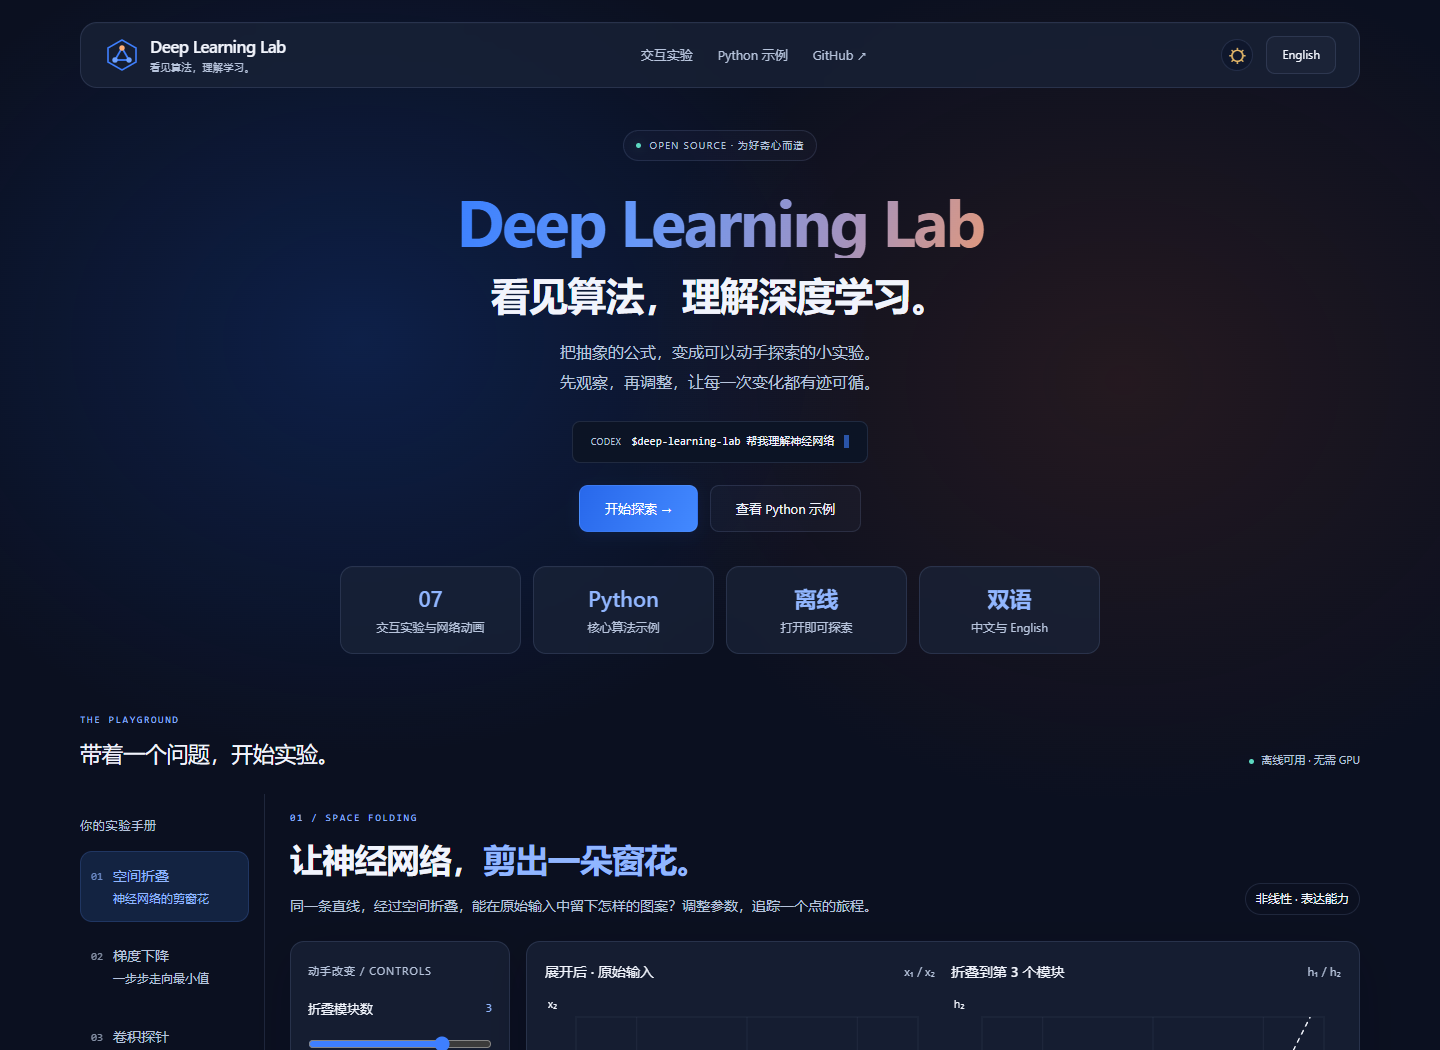
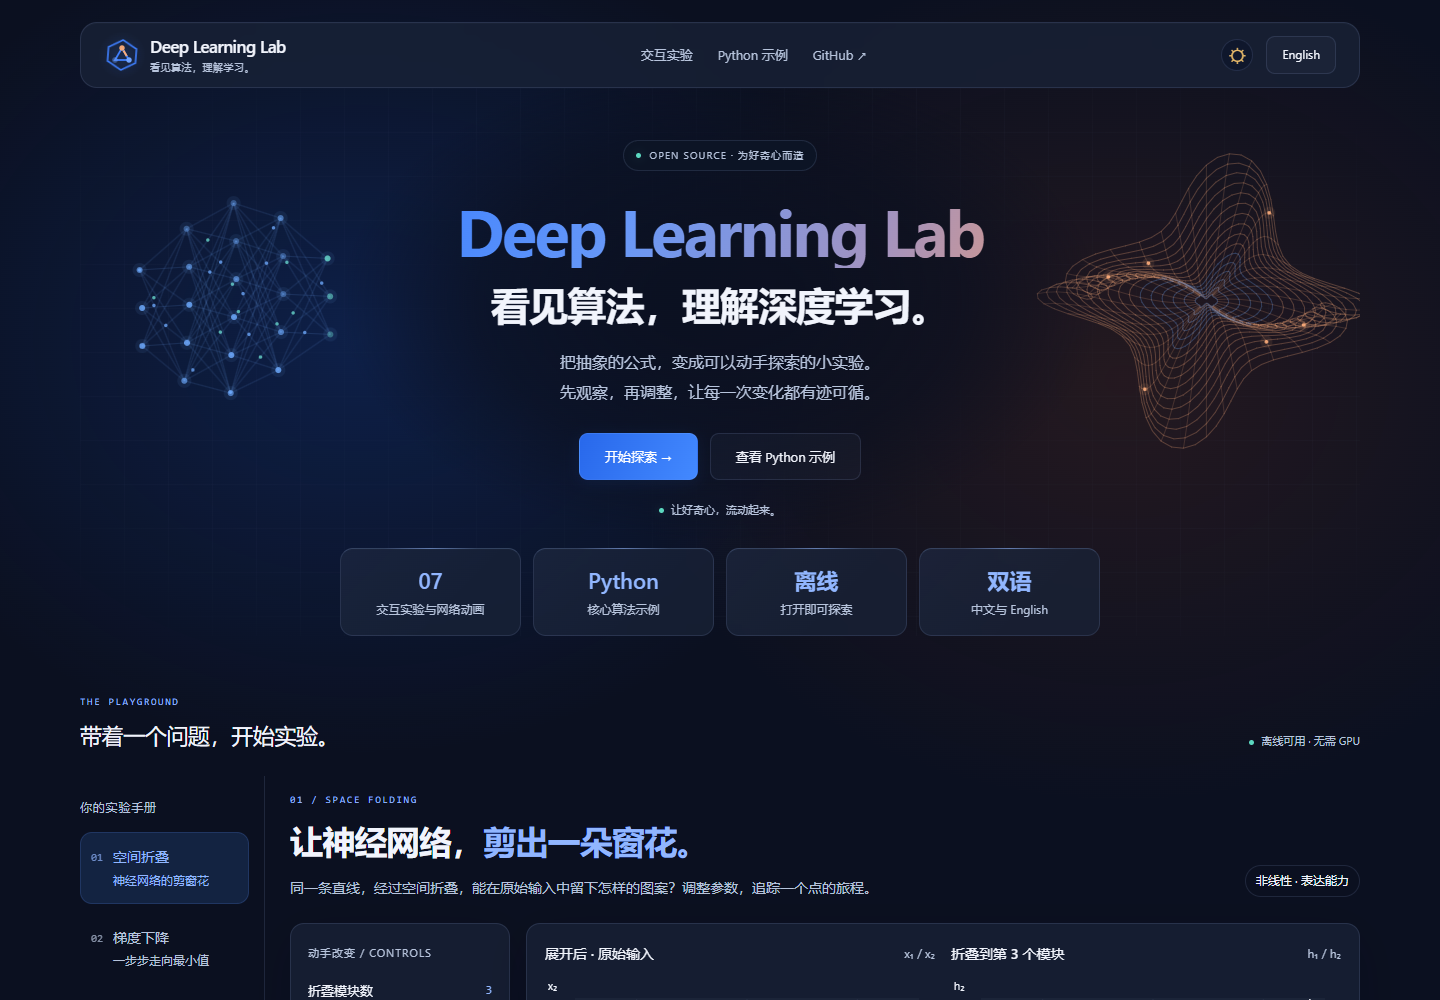
Animate the landing page and simplify hero content

diff --git a/assets/lab/hero.js b/assets/lab/hero.js
@@ -1,0 +1,121 @@
+(function () {
+  'use strict';
+  const root = document.documentElement;
+  const landing = document.querySelector('.landing');
+  const canvas = document.getElementById('landing-canvas');
+  const ctx = canvas.getContext('2d');
+  const reduced = window.matchMedia('(prefers-reduced-motion: reduce)');
+  let enabled = !reduced.matches;
+  let inView = true, frame = 0, previous = 0, elapsed = 0, width = 0, height = 0;
+  const tau = Math.PI * 2;
+
+  function labels() {
+    const zh = root.lang !== 'en';
+    document.getElementById('scene-caption').textContent = zh ? '让好奇心，流动起来。' : 'Let curiosity flow.';
+  }
+  function dot(x, y, radius, color, alpha) {
+    ctx.globalAlpha = alpha;
+    ctx.fillStyle = color;
+    ctx.beginPath(); ctx.arc(x, y, radius, 0, tau); ctx.fill();
+  }
+  function draw() {
+    if (!ctx || !width || !height) return;
+    ctx.clearRect(0, 0, width, height);
+    const light = root.dataset.theme === 'light';
+    const blue = light ? '#3265bd' : '#6eabff';
+    const warm = light ? '#bd653e' : '#ffae7b';
+    const teal = light ? '#318877' : '#6bdfd0';
+    const compact = width < 900;
+    const scale = compact ? .65 : 1;
+    const cy = compact ? 215 : 213;
+    const left = compact ? width * .04 : width * .12;
+    const right = compact ? width * .98 : width * .88;
+    const t = elapsed * .001;
+
+    // A decorative layered graph: packets travel from one layer to the next.
+    const counts = [3, 5, 6, 5, 3];
+    const layers = counts.map((count, layer) => Array.from({ length: count }, (_, row) => ({
+      x: left + (layer - 2) * 47 * scale + Math.sin(t * .3 + row) * 3,
+      y: cy + (row - (count - 1) / 2) * 38 * scale + Math.cos(t * .25 + layer) * 7
+    })));
+    ctx.lineWidth = .8;
+    for (let layer = 0; layer < layers.length - 1; layer++) {
+      layers[layer].forEach((a, i) => layers[layer + 1].forEach((b, j) => {
+        ctx.globalAlpha = (light ? .2 : .19) * (compact ? .7 : 1);
+        ctx.strokeStyle = blue; ctx.beginPath(); ctx.moveTo(a.x, a.y); ctx.lineTo(b.x, b.y); ctx.stroke();
+        if ((i * 3 + j + layer) % 4 === 0) {
+          const progress = (t * .23 + layer * .25 + i * .17 + j * .08) % 1;
+          dot(a.x + (b.x - a.x) * progress, a.y + (b.y - a.y) * progress, 1.7, i % 2 ? teal : blue, .75);
+        }
+      }));
+    }
+    layers.forEach((points, layer) => points.forEach((p, i) => {
+      dot(p.x, p.y, 7 * scale, blue, .08);
+      dot(p.x, p.y, 3 * scale, layer === 4 ? teal : blue, .6 + .25 * Math.sin(t * 1.6 - layer + i));
+    }));
+
+    // A slowly turning folded surface, echoing the paper-cut experiment.
+    const radius = 147 * scale;
+    const turn = t * .055;
+    function surface(v, u) {
+      const angle = u * tau;
+      const r = radius * v * (1 + .21 * Math.cos(6 * angle + v * 2));
+      const z = Math.sin(3 * angle + v * 2.8) * radius * v * .38;
+      return { x: right + Math.cos(angle + turn) * r, y: cy + Math.sin(angle + turn) * r * .62 + z * .7 };
+    }
+    ctx.lineWidth = .85;
+    for (let ring = 1; ring <= 16; ring++) {
+      ctx.globalAlpha = light ? .3 : .32;
+      ctx.strokeStyle = ring < 7 ? blue : warm;
+      ctx.beginPath();
+      for (let i = 0; i <= 96; i++) {
+        const p = surface(ring / 16, i / 96);
+        if (!i) ctx.moveTo(p.x, p.y); else ctx.lineTo(p.x, p.y);
+      }
+      ctx.stroke();
+    }
+    for (let i = 0; i < 48; i++) {
+      ctx.globalAlpha = light ? .17 : .2; ctx.strokeStyle = warm; ctx.beginPath();
+      for (let ring = 1; ring <= 16; ring++) {
+        const p = surface(ring / 16, i / 48);
+        if (ring === 1) ctx.moveTo(p.x, p.y); else ctx.lineTo(p.x, p.y);
+      }
+      ctx.stroke();
+    }
+    for (let i = 0; i < 6; i++) {
+      const p = surface(.62 + .3 * Math.sin(t * .3 + i) ** 2, (t * .025 + i / 6) % 1);
+      dot(p.x, p.y, 6, warm, .09); dot(p.x, p.y, 1.8, warm, .9);
+    }
+    ctx.globalAlpha = 1;
+  }
+  function tick(now) {
+    if (!previous) previous = now;
+    if (now - previous >= 32) {
+      elapsed += Math.min(now - previous, 80); previous = now; draw();
+    }
+    frame = requestAnimationFrame(tick);
+  }
+  function sync() {
+    cancelAnimationFrame(frame); frame = 0; previous = 0;
+    const running = enabled && inView && !document.hidden;
+    root.dataset.ambientRunning = running ? 'on' : 'off';
+    canvas.dataset.sceneState = !enabled ? 'paused' : document.hidden ? 'hidden' : !inView ? 'offscreen' : 'running';
+    labels();
+    if (running && ctx) frame = requestAnimationFrame(tick);
+    else draw();
+  }
+  function resize() {
+    const rect = landing.getBoundingClientRect();
+    width = Math.round(rect.width); height = Math.round(rect.height);
+    const dpr = Math.min(window.devicePixelRatio || 1, 1.5);
+    canvas.width = Math.round(width * dpr); canvas.height = Math.round(height * dpr);
+    if (ctx) ctx.setTransform(dpr, 0, 0, dpr, 0, 0);
+    draw();
+  }
+  reduced.addEventListener('change', () => { enabled = !reduced.matches; sync(); });
+  document.addEventListener('visibilitychange', sync);
+  new IntersectionObserver(entries => { inView = entries[0].isIntersecting; sync(); }).observe(landing);
+  new ResizeObserver(resize).observe(landing);
+  new MutationObserver(() => { labels(); draw(); }).observe(root, { attributes: true, attributeFilter: ['lang', 'data-theme'] });
+  resize(); sync();
+})();

diff --git a/assets/lab/index.html b/assets/lab/index.html
@@ -11,27 +11,30 @@
   <link rel="stylesheet" href="design.css">
   <link rel="stylesheet" href="controls.css">
   <link rel="stylesheet" href="networks.css">
+  <link rel="stylesheet" href="hero.css">
   <script defer src="core.js"></script>
   <script defer src="network-model.js"></script>
   <script defer src="networks-ui.js"></script>
   <script defer src="mlp-model.js"></script>
   <script defer src="mlp-ui.js"></script>
   <script defer src="app.js"></script>
+  <script defer src="hero.js"></script>
 </head>
 <body>
   <a class="skip-link" href="#main">跳转到实验 / Skip to experiment</a>
   <header class="site-header">
-    <a class="brand" href="#fold" aria-label="Deep Learning Lab home"><span class="brand-mark" aria-hidden="true"><svg viewBox="0 0 36 36"><path d="M18 3 32 11v14l-14 8L4 25V11Z" fill="none" stroke="currentColor" stroke-width="1.6"/><path d="m11 23 7-12 7 12Z" fill="none" stroke="currentColor" stroke-width="1.8"/><circle cx="18" cy="11" r="2.7" fill="#ffad75"/><circle cx="11" cy="23" r="2.7" fill="#6fa2ff"/><circle cx="25" cy="23" r="2.7" fill="#6fa2ff"/></svg></span><span>Deep Learning <strong>Lab</strong><small id="brand-caption">看见算法，理解学习。</small></span></a>
+    <a class="brand" href="#fold" aria-label="Deep Learning Lab home"><span class="brand-mark" aria-hidden="true"><svg viewBox="0 0 36 36"><path class="brand-orbit" d="M18 3 32 11v14l-14 8L4 25V11Z" fill="none" stroke="currentColor" stroke-width="1.6"/><path d="m11 23 7-12 7 12Z" fill="none" stroke="currentColor" stroke-width="1.8"/><path class="brand-signal" d="m18 11 7 12H11Z" fill="none" stroke="#ffad75" stroke-width="2" pathLength="1"/><circle class="brand-node" cx="18" cy="11" r="2.7" fill="#ffad75"/><circle class="brand-node" cx="11" cy="23" r="2.7" fill="#6fa2ff"/><circle class="brand-node" cx="25" cy="23" r="2.7" fill="#6fa2ff"/></svg></span><span>Deep Learning <strong>Lab</strong><small id="brand-caption">看见算法，理解学习。</small></span></a>
     <nav class="top-nav" aria-label="Sections"><button type="button" id="nav-lab">交互实验</button><button type="button" id="nav-python">Python 示例</button><a href="https://github.com/cosin17/deep-learning-lab" target="_blank" rel="noopener noreferrer">GitHub ↗</a></nav>
     <div class="header-actions"><button id="theme-toggle" class="theme-button" type="button" aria-label="切换为浅色主题">☼</button><button class="language-button" id="language" type="button">English</button></div>
   </header>
   <section class="landing" aria-labelledby="landing-title">
+    <div class="landing-scene" aria-hidden="true"><canvas id="landing-canvas"></canvas><div class="scene-grid"></div></div>
     <p class="open-badge"><span aria-hidden="true"></span><span id="landing-badge">OPEN SOURCE · 为好奇心而造</span></p>
     <h1 id="landing-title">Deep Learning Lab</h1>
     <p class="landing-subtitle" id="landing-subtitle">看见算法，理解深度学习。</p>
     <p class="landing-description" id="landing-description">把抽象的公式，变成可以动手探索的小实验。<br>先观察，再调整，让每一次变化都有迹可循。</p>
-    <div class="agent-command"><span class="command-dollar">CODEX</span><code id="agent-command">$deep-learning-lab 帮我理解神经网络</code><span class="command-cursor" aria-hidden="true"></span></div>
     <div class="landing-actions"><button class="button primary" type="button" id="start-experiment">开始探索 →</button><button class="button" type="button" id="explore-python">查看 Python 示例</button></div>
+    <p class="scene-caption"><i aria-hidden="true"></i><span id="scene-caption">让好奇心，流动起来。</span></p>
     <div class="feature-strip" id="feature-strip"></div>
   </section>
   <div class="lab-section-head"><div><p class="eyebrow">THE PLAYGROUND</p><h2 id="lab-section-title">带着一个问题，开始实验。</h2></div><span class="offline" id="offline-label">离线可用 · 无需 GPU</span></div>

diff --git a/assets/lab/hero.css b/assets/lab/hero.css
@@ -1,0 +1,43 @@
+/* Decorative motion stays behind crisp, stationary text. No remote media. */
+.landing { position: relative; isolation: isolate; max-width: 1280px; padding-top: 52px; }
+.landing-scene { position: absolute; inset: 0; z-index: -2; overflow: hidden; pointer-events: none; border-radius: 32px; }
+#landing-canvas { width: 100%; height: 100%; display: block; }
+.scene-grid { position: absolute; inset: 0; background-image: linear-gradient(var(--grid) 1px, transparent 1px), linear-gradient(90deg, var(--grid) 1px, transparent 1px); background-size: 44px 44px; opacity: .22; mask-image: radial-gradient(ellipse at center, transparent 22%, #000 68%, transparent 95%); }
+.landing::before { content: ""; position: absolute; inset: 0; z-index: -1; pointer-events: none; background: radial-gradient(ellipse 380px 240px at 50% 39%, #0b1020e8 18%, #0b1020a3 64%, transparent 100%); }
+:root[data-theme="light"] .landing::before { background: radial-gradient(ellipse 380px 240px at 50% 39%, #f4f6fcf5 18%, #f4f6fcb5 64%, transparent 100%); }
+.landing-description { color: var(--muted); font-weight: 400; }
+.open-badge { background: var(--code-bg); }
+.landing-actions { margin-top: 26px; }
+.scene-caption { display: flex; align-items: center; justify-content: center; gap: 7px; margin: 18px auto 0; min-height: 24px; color: var(--muted); font-size: 11px; }
+.scene-caption i { width: 5px; height: 5px; border-radius: 50%; background: var(--green); box-shadow: 0 0 9px #5cd8c040; }
+.feature-strip { margin-top: 26px; }
+.feature-tile { position: relative; background: linear-gradient(135deg, #729bff08, transparent 65%), var(--glass); border-top-color: #8ca8db40; }
+.feature-tile::after { content: ""; position: absolute; left: 24%; right: 24%; top: -1px; height: 1px; background: linear-gradient(90deg, transparent, #91b6ff80, transparent); }
+.brand-mark { position: relative; }
+.brand-mark::before { content: ""; position: absolute; inset: -6px; z-index: -1; border-radius: 50%; background: radial-gradient(circle, #3e7fff23, transparent 70%); }
+.brand-orbit { transform-origin: 18px 18px; animation: logo-orbit 24s linear infinite; }
+.brand-signal { stroke-dasharray: .14 .86; animation: logo-signal 3.6s linear infinite; }
+.brand-node { animation: logo-node 3.6s ease-in-out infinite; }
+.brand-node:nth-of-type(2) { animation-delay: -1.2s; }
+.brand-node:nth-of-type(3) { animation-delay: -2.4s; }
+:root:not([data-ambient-running="on"]) .brand-orbit,
+:root:not([data-ambient-running="on"]) .brand-signal,
+:root:not([data-ambient-running="on"]) .brand-node { animation-play-state: paused; }
+@keyframes logo-orbit { to { transform: rotate(360deg); } }
+@keyframes logo-signal { to { stroke-dashoffset: -1; } }
+@keyframes logo-node { 0%, 70%, 100% { opacity: 1; } 35% { opacity: .4; } }
+@media (prefers-reduced-motion: no-preference) {
+  .landing-actions .button { transition: transform .2s ease, box-shadow .2s ease, border-color .2s ease; }
+  .landing-actions .button:hover { transform: translateY(-2px); border-color: var(--accent); }
+  .landing-actions .primary:hover { box-shadow: 0 6px 25px #2363df40; }
+}
+@media (max-width: 900px) { .landing { padding-top: 43px; } .landing-scene { opacity: .75; } }
+@media (max-width: 620px) {
+  .landing { padding-top: 33px; }
+  .landing-scene { opacity: .6; border-radius: 0; }
+  .landing::before { background: radial-gradient(ellipse at 50% 40%, #0b1020e8 18%, #0b1020a3 55%, transparent 90%); }
+  :root[data-theme="light"] .landing::before { background: radial-gradient(ellipse at 50% 40%, #f4f6fcf5 18%, #f4f6fcb5 55%, transparent 90%); }
+  .landing-actions { margin-top: 23px; }
+  .scene-caption { font-size: 10px; margin-top: 14px; }
+  .feature-strip { margin-top: 22px; }
+}

diff --git a/assets/lab/design.css b/assets/lab/design.css
@@ -54,10 +54,6 @@ body {
 .landing-subtitle { font-size: clamp(25px, 3.2vw, 39px); font-weight: 600; letter-spacing: -.8px; line-height: 1.45; color: var(--ink); margin: 8px 0 14px; }
 :root[data-theme="light"] #landing-title { background-image: linear-gradient(110deg, #2455c5 18%, #4765bd 42%, #785a92 63%, #aa5029 85%); }
 .landing-description { color: var(--muted); font-size: 16px; font-weight: 400; line-height: 30px; max-width: 640px; margin: auto; }
-.agent-command { display: flex; justify-content: center; align-items: center; gap: 10px; width: fit-content; max-width: 100%; margin: 24px auto 22px; padding: 11px 18px; border: 1px solid var(--line); border-radius: 8px; background: var(--code-bg); color: var(--ink); font-size: 11px; }
-.agent-command code { font-family: Consolas, "SFMono-Regular", monospace; overflow-wrap: anywhere; text-align: left; }
-.command-dollar { color: var(--muted); font-size: 9px; letter-spacing: .5px; }
-.command-cursor { width: 5px; height: 13px; background: var(--accent-fill); opacity: .6; }
 .landing-actions { display: flex; justify-content: center; flex-wrap: wrap; gap: 12px; }
 .button { background: #99b1da0a; border-color: var(--line); font-size: 13px; border-radius: 9px; color: var(--ink); padding: 9px 14px; }
 .button.primary { background: linear-gradient(115deg, #2868eb, #4389ff); border: 1px solid #86b3ff26; color: var(--primary-text); box-shadow: 0 3px 14px #2363df1a; }
@@ -184,7 +180,6 @@ footer { max-width: 1280px; margin: 0 auto; padding: 23px 0 30px; font-size: 10p
   #landing-title { font-size: clamp(31px,8.7vw,48px); letter-spacing: -1.4px; }
   .landing-subtitle { font-size: 23px; letter-spacing: -.4px; margin: 12px 0; }
   .landing-description { font-size: 16px; line-height: 28px; }
-  .agent-command { padding: 10px 12px; font-size: 10px; margin-top: 21px; }
   .landing-actions { gap: 10px; }
   .landing-actions .button { padding: 10px 17px; font-size: 12px; }
   .feature-strip { grid-template-columns: repeat(2,minmax(0,1fr)); gap: 10px; margin-top: 27px; max-width: 420px; }

diff --git a/assets/lab/app.js b/assets/lab/app.js
@@ -63,7 +63,6 @@
     $('landing-subtitle').textContent = tr('看见算法，理解深度学习。', 'Make deep learning click.');
     $('landing-description').innerHTML = tr('把抽象的公式，变成可以动手探索的小实验。<br>先观察，再调整，让每一次变化都有迹可循。',
       'Turn abstract equations into little experiments you can explore.<br>Make a prediction. Change one thing. Follow the math.');
-    $('agent-command').textContent = tr('$deep-learning-lab 帮我理解神经网络', '$deep-learning-lab help me understand neural networks');
     $('start-experiment').textContent = tr('开始探索 →', 'Start exploring →');
     $('explore-python').textContent = tr('查看 Python 示例', 'Explore Python');
     $('lab-section-title').textContent = tr('带着一个问题，开始实验。', 'Bring a question. Find an answer.');

diff --git a/tests/test_export.py b/tests/test_export.py
@@ -21,7 +21,7 @@ class ExportTests(unittest.TestCase):
                     html = entry.read_text(encoding="utf-8")
                     self.assertIn('data-initial-topic="' + topic + '"', html)
                     self.assertIn('data-initial-language="' + language + '"', html)
-                    for name in ("style.css", "design.css", "controls.css", "networks.css", "core.js", "network-model.js", "networks-ui.js", "mlp-model.js", "mlp-ui.js", "app.js", "LICENSE", "python/deep_learning_lab.py"):
+                    for name in ("style.css", "design.css", "controls.css", "networks.css", "hero.css", "core.js", "network-model.js", "networks-ui.js", "mlp-model.js", "mlp-ui.js", "app.js", "hero.js", "LICENSE", "python/deep_learning_lab.py"):
                         self.assertTrue((destination / name).is_file(), name)
                     self.assertEqual((destination / "core.js").read_bytes(), (ROOT / "assets" / "lab" / "core.js").read_bytes())
 

diff --git a/scripts/export_lab.py b/scripts/export_lab.py
@@ -17,7 +17,7 @@ def export_lab(output: Path, topic: str = "fold", language: str = "zh") -> Path:
         raise FileExistsError("Destination already exists; choose a new directory: " + str(output))
     skill_root = Path(__file__).resolve().parents[1]
     source = skill_root / "assets" / "lab"
-    names = ("index.html", "style.css", "design.css", "controls.css", "networks.css", "core.js", "network-model.js", "networks-ui.js", "mlp-model.js", "mlp-ui.js", "app.js")
+    names = ("index.html", "style.css", "design.css", "controls.css", "networks.css", "hero.css", "core.js", "network-model.js", "networks-ui.js", "mlp-model.js", "mlp-ui.js", "app.js", "hero.js")
     for name in names:
         if not (source / name).is_file():
             raise FileNotFoundError("Missing lab resource: " + name)
